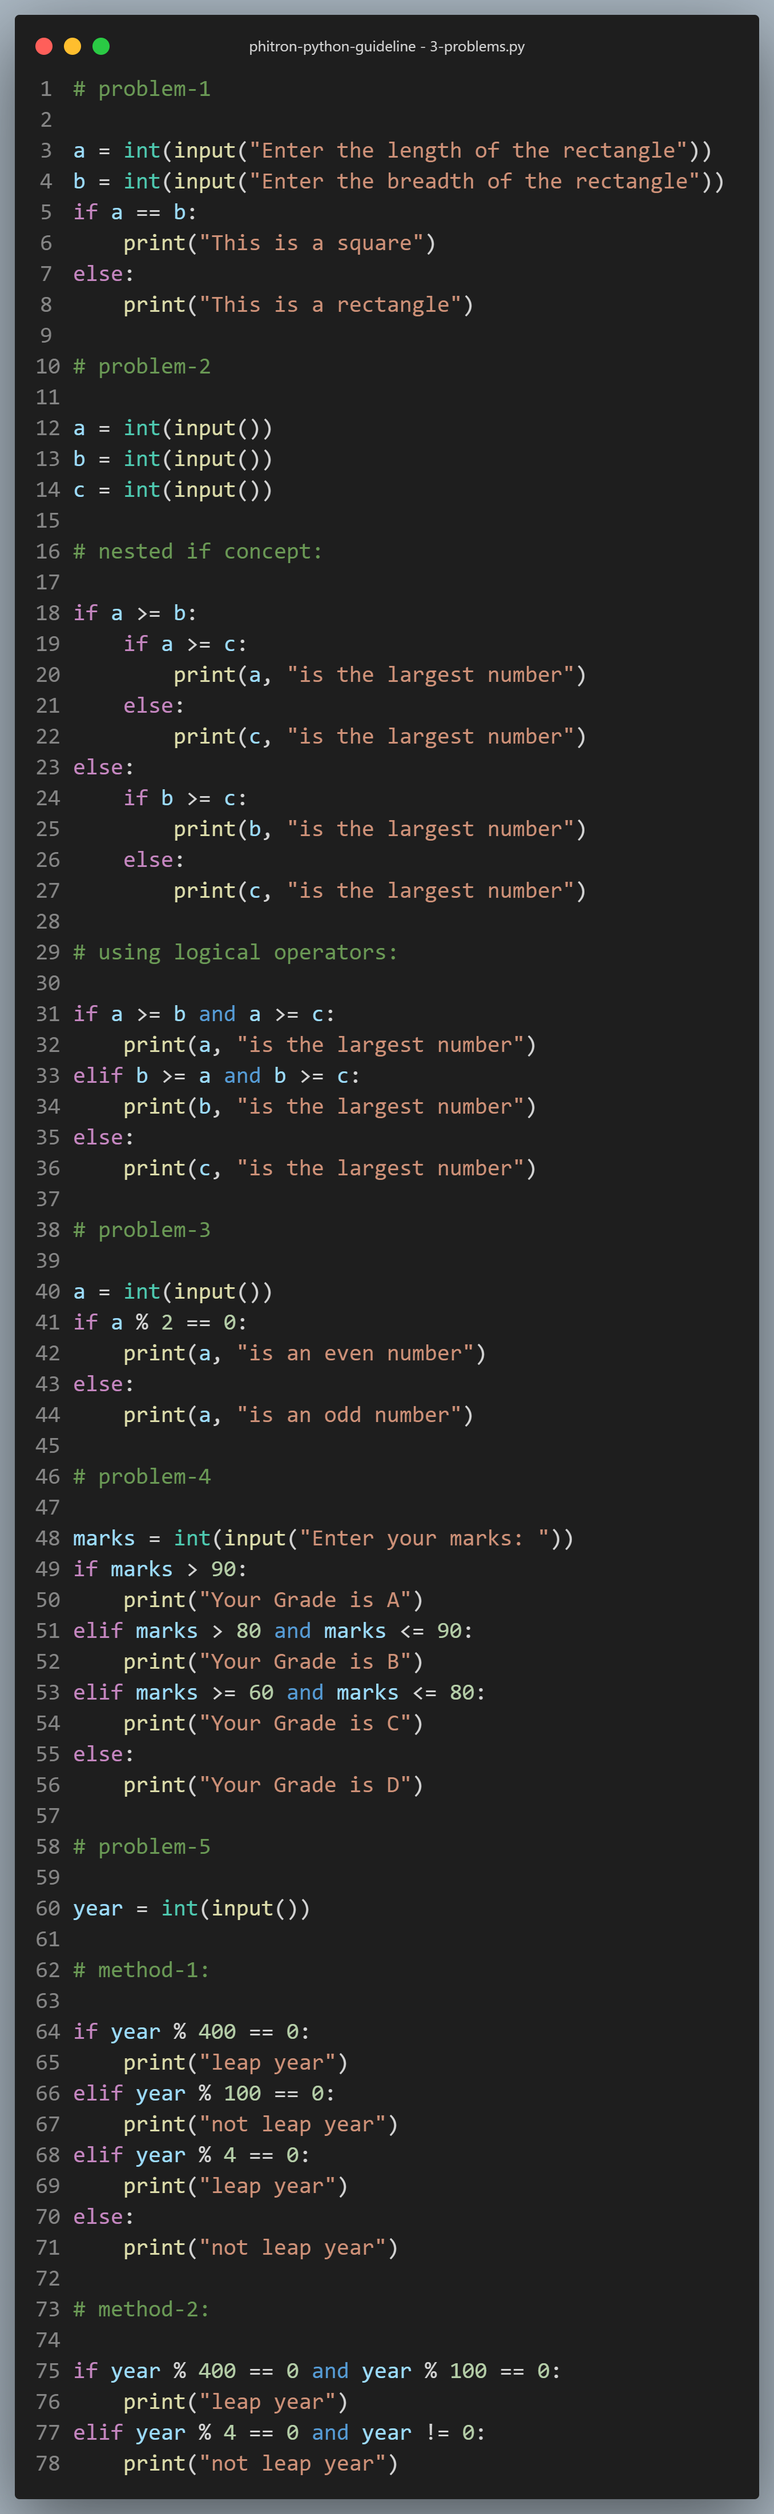
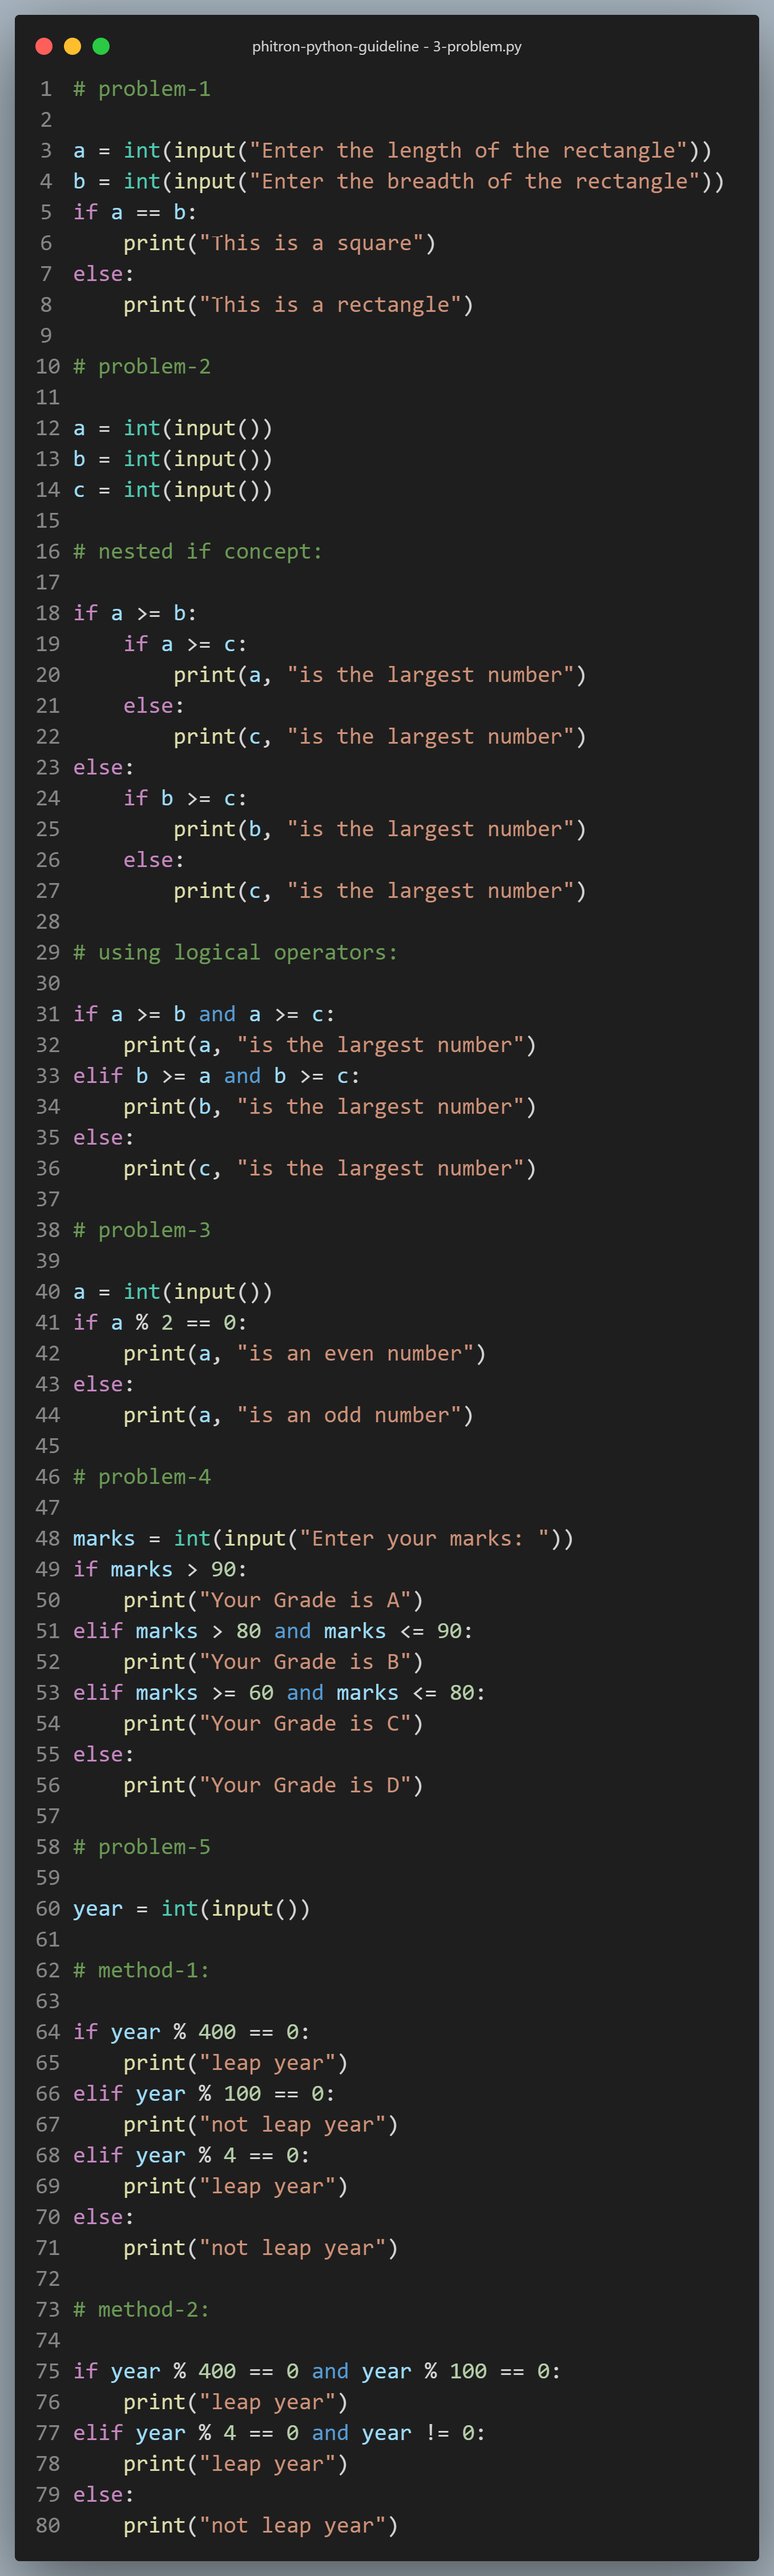
day 3 complete

diff --git a/coding-files/2-problem.py b/coding-files/2-problem.py
@@ -37,7 +37,9 @@ else:
 
 # problem-5
 year = int(input())
-if (year % 400 == 0 and year % 100 == 0) or (year % 4 == 0 and year % 100 != 0):
+if (year % 400 == 0 and year % 100 == 0)
+    print(year, "is a leap year")
+elif (year % 4 == 0 and year % 100 != 0):
     print(year, "is a leap year")
 else:
     print(year, "is not a leap year")

diff --git a/coding-files/3-problem.py b/coding-files/3-problem.py
@@ -75,4 +75,6 @@ else:
 if year % 400 == 0 and year % 100 == 0:
     print("leap year")
 elif year % 4 == 0 and year != 0:
+    print("leap year")
+else:
     print("not leap year")

diff --git a/notes/day-2.md b/notes/day-2.md
@@ -1,5 +1,3 @@
-![](/group-image/day-2.jpg)
-
 # Link
 
 - Phitron Guideline
@@ -55,5 +53,5 @@ Converts to float number.
 ![](/code-image/conditional-statement.png)
 - [typecasting](/coding-files/2-typecasting.py)
 ![](/code-image/typecasting.png)
-- [problems](/coding-files/2-problems.py)
+- [problems](/coding-files/2-problem.py)
 ![](/code-image/2-problem.png)

diff --git a/notes/day-3.md b/notes/day-3.md
@@ -1,5 +1,3 @@
-![](/group-image/day-3.jpg)
-
 # Link
 
 - Phitron Guideline
@@ -8,5 +6,5 @@
 
 # Code
 
-- [problems](/coding-files/3-problems.py)
+- [problems](/coding-files/3-problem.py)
 ![](/code-image/3-problem.png)

diff --git a/notes/day-1.md b/notes/day-1.md
@@ -1,5 +1,3 @@
-![](/group-image/day-1.jpg)
-
 # Link
 
 - Phitron Guideline
